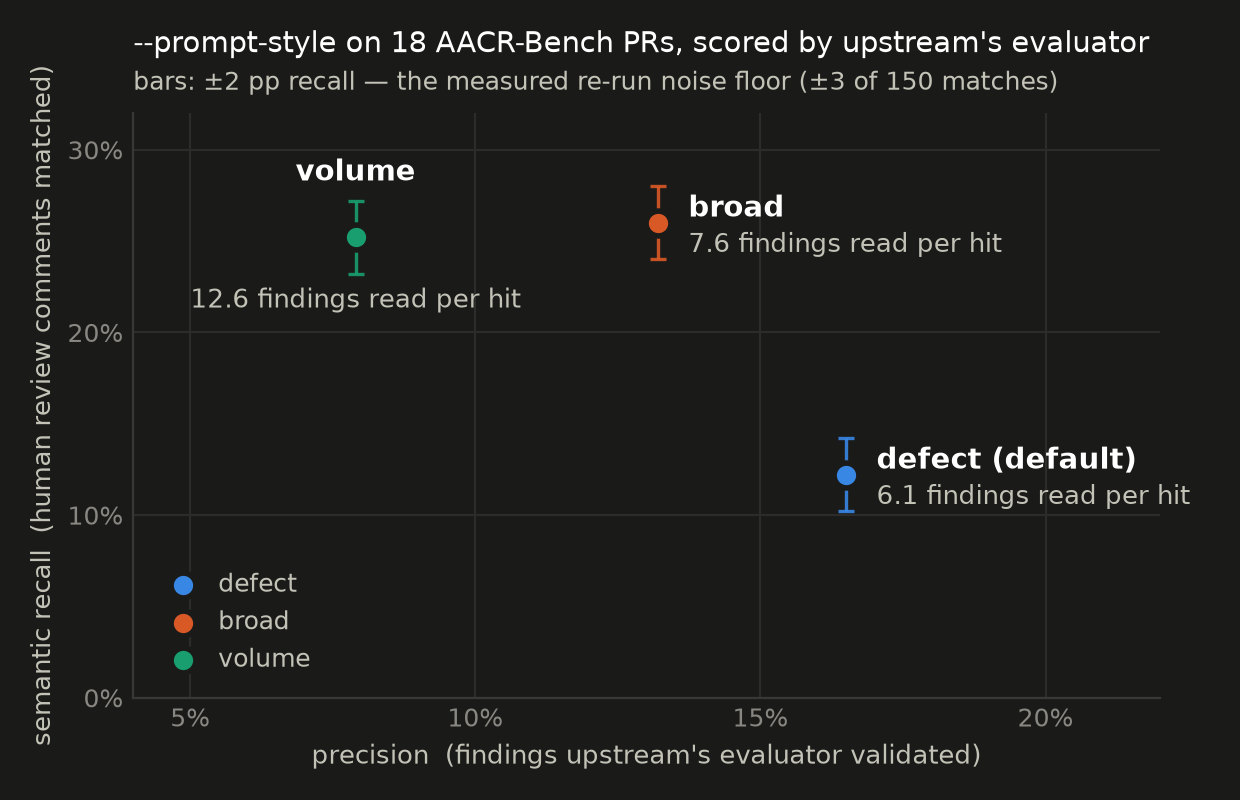
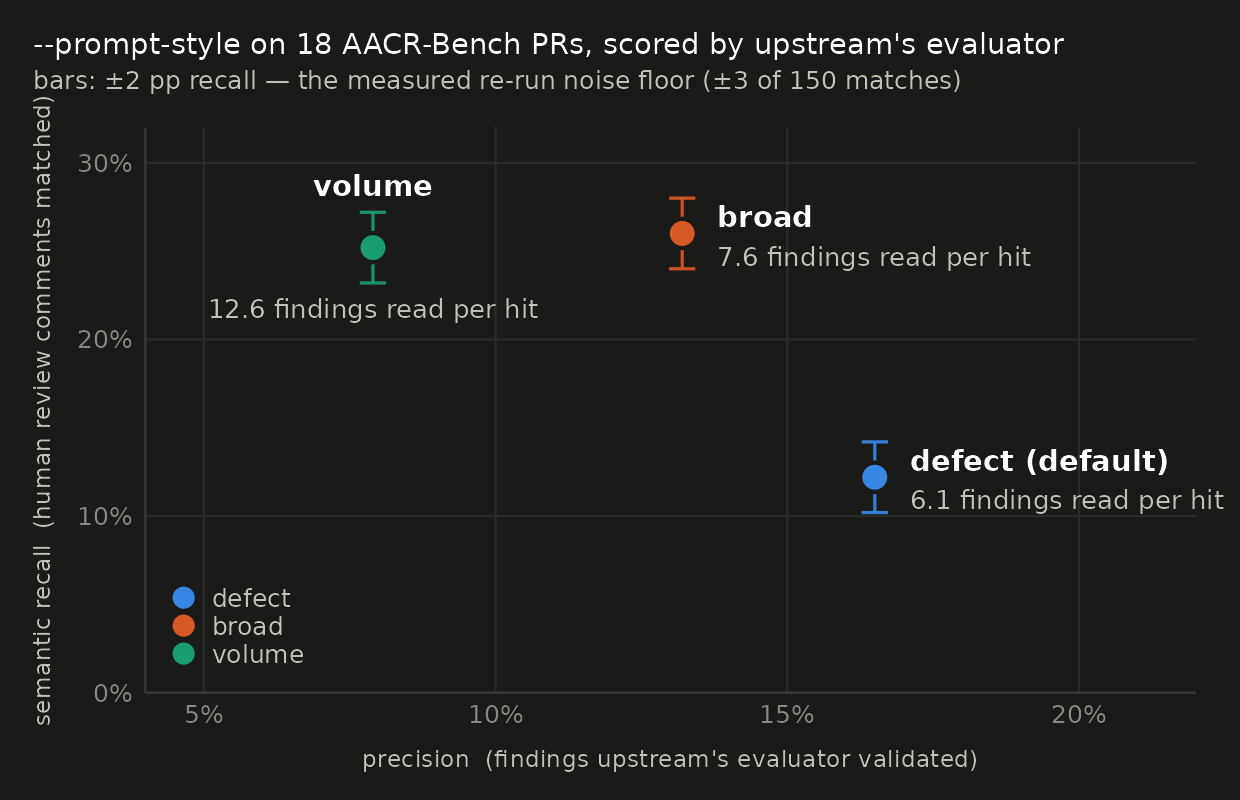
The benchmark chart is ggplot2 from one sourced house theme
docs/bench_chart.py drew the README's precision/recall chart with matplotlib and a
palette declared inline. It is replaced by docs/bench_chart.R, which sources
docs/theme.R -- the one place a colour or a text size for any figure in this repository
lives. Same numbers (the README table), same 6.2x4.0 in / 200 dpi canvas, same light and
dark renders behind the README's <picture>.

Two defects were caught on the first render and fixed in the theme, not the script: the
rotated y title was taller than the panel and collided with the subtitle (axis titles
now 0.86 of base), and the legend keys were invisible because the override painted the
outline in the surface colour. An independent critic passed both renders afterwards,
reading every plotted position back within a grid line of the table.

diff --git a/CHANGELOG.md b/CHANGELOG.md
@@ -1,5 +1,11 @@
 # Changelog
 
+## Unreleased
+
+- The README's precision/recall chart is drawn by `docs/bench_chart.R` (ggplot2) from
+  `docs/theme.R`, the one house style every figure in the repository sources; the
+  matplotlib script it replaces is gone. Same numbers, same canvas, both colour schemes.
+
 ## 0.1.3 — 2026-09-01
 
 A documentation release: the only code change is one word of `--rebut` help text
